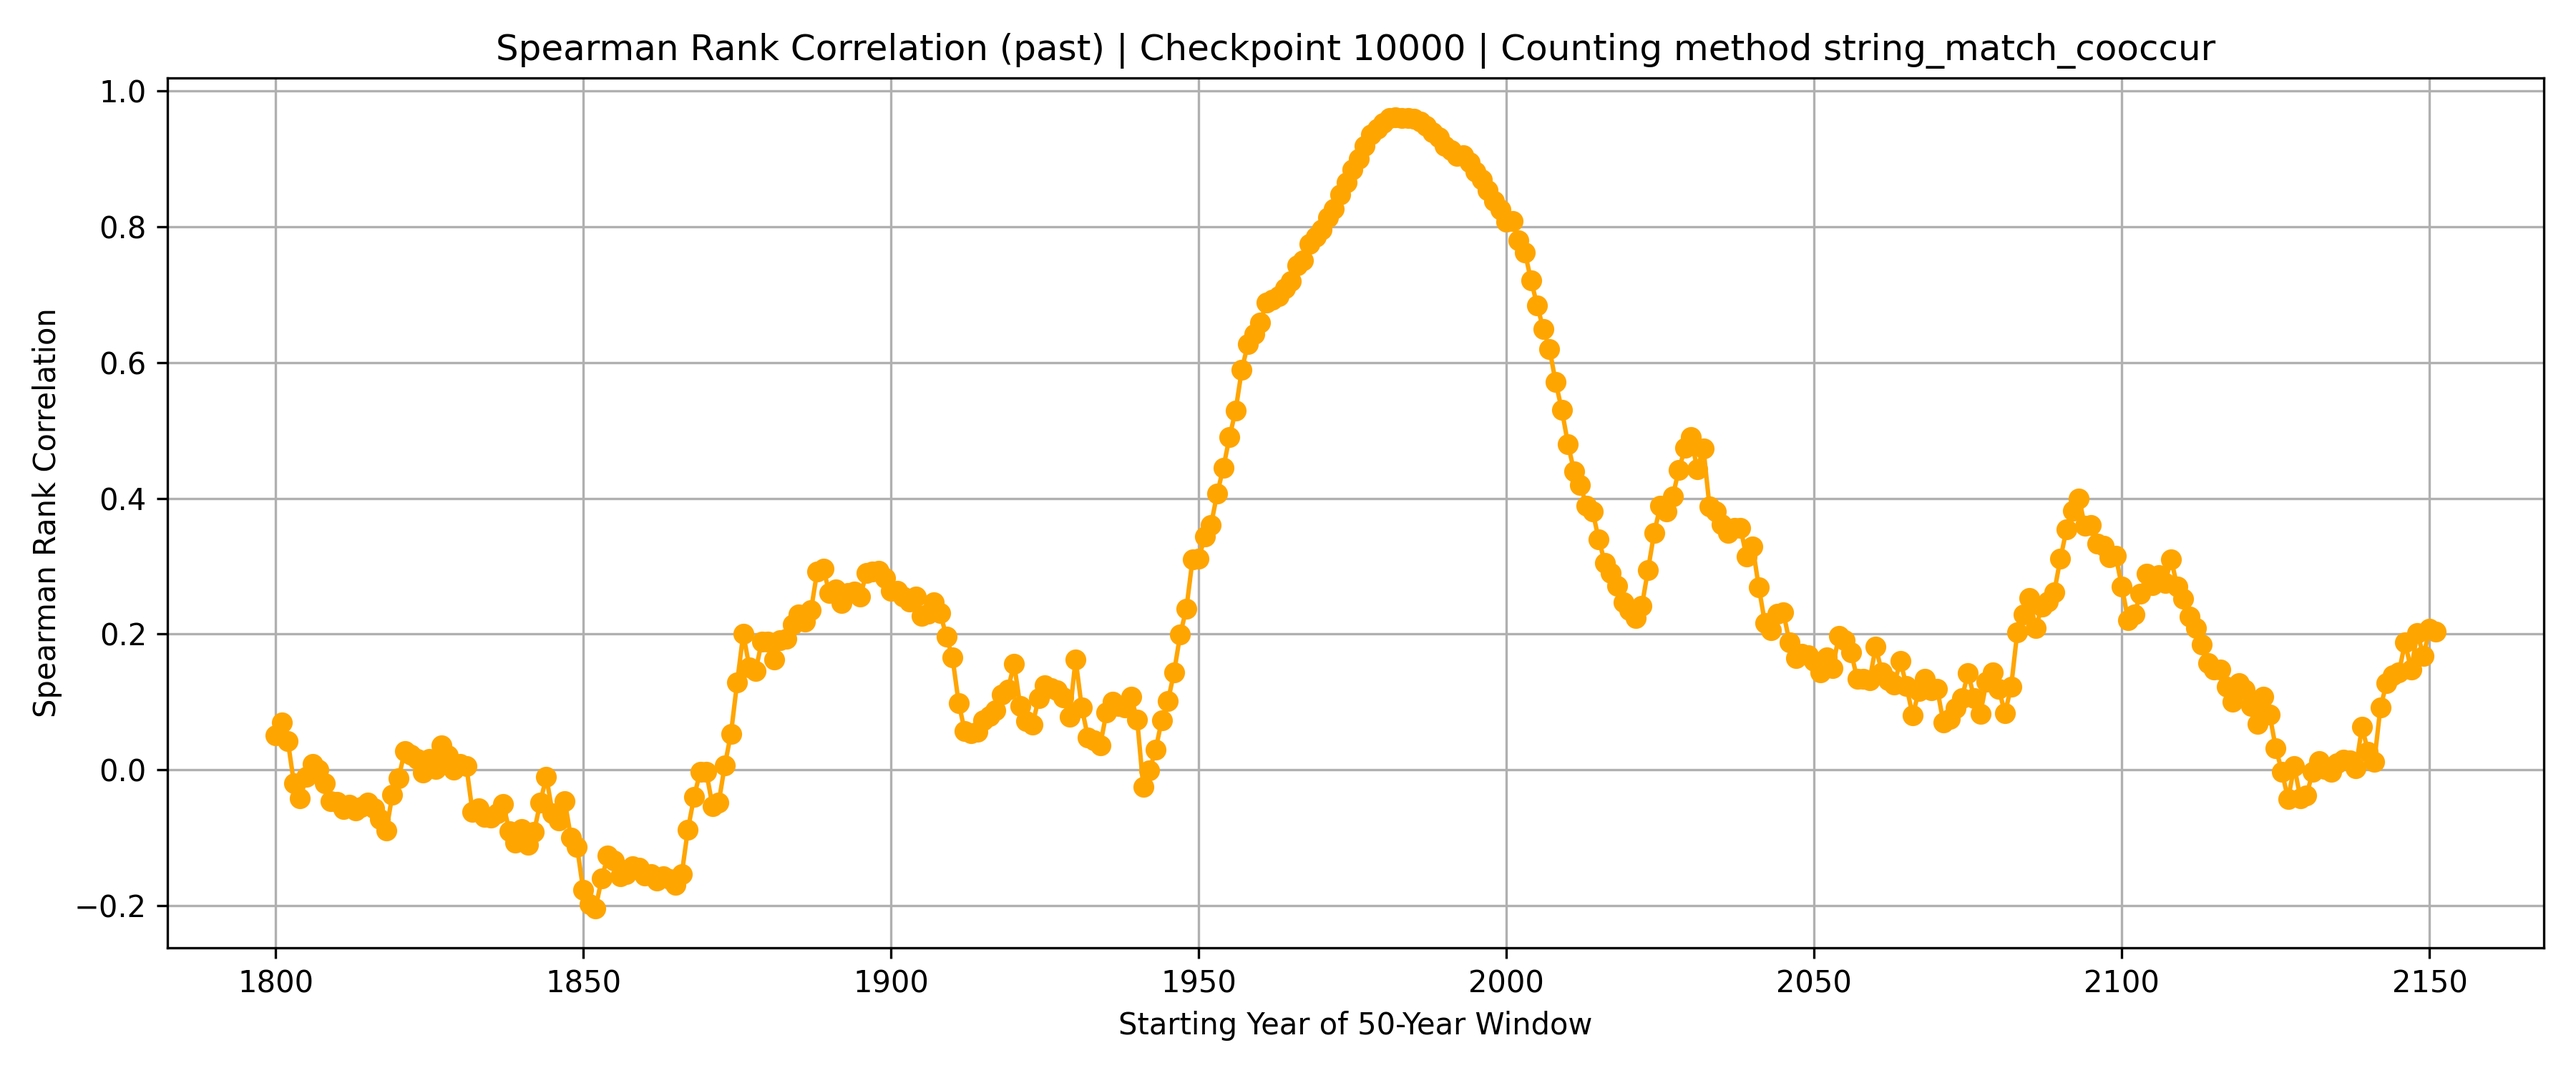
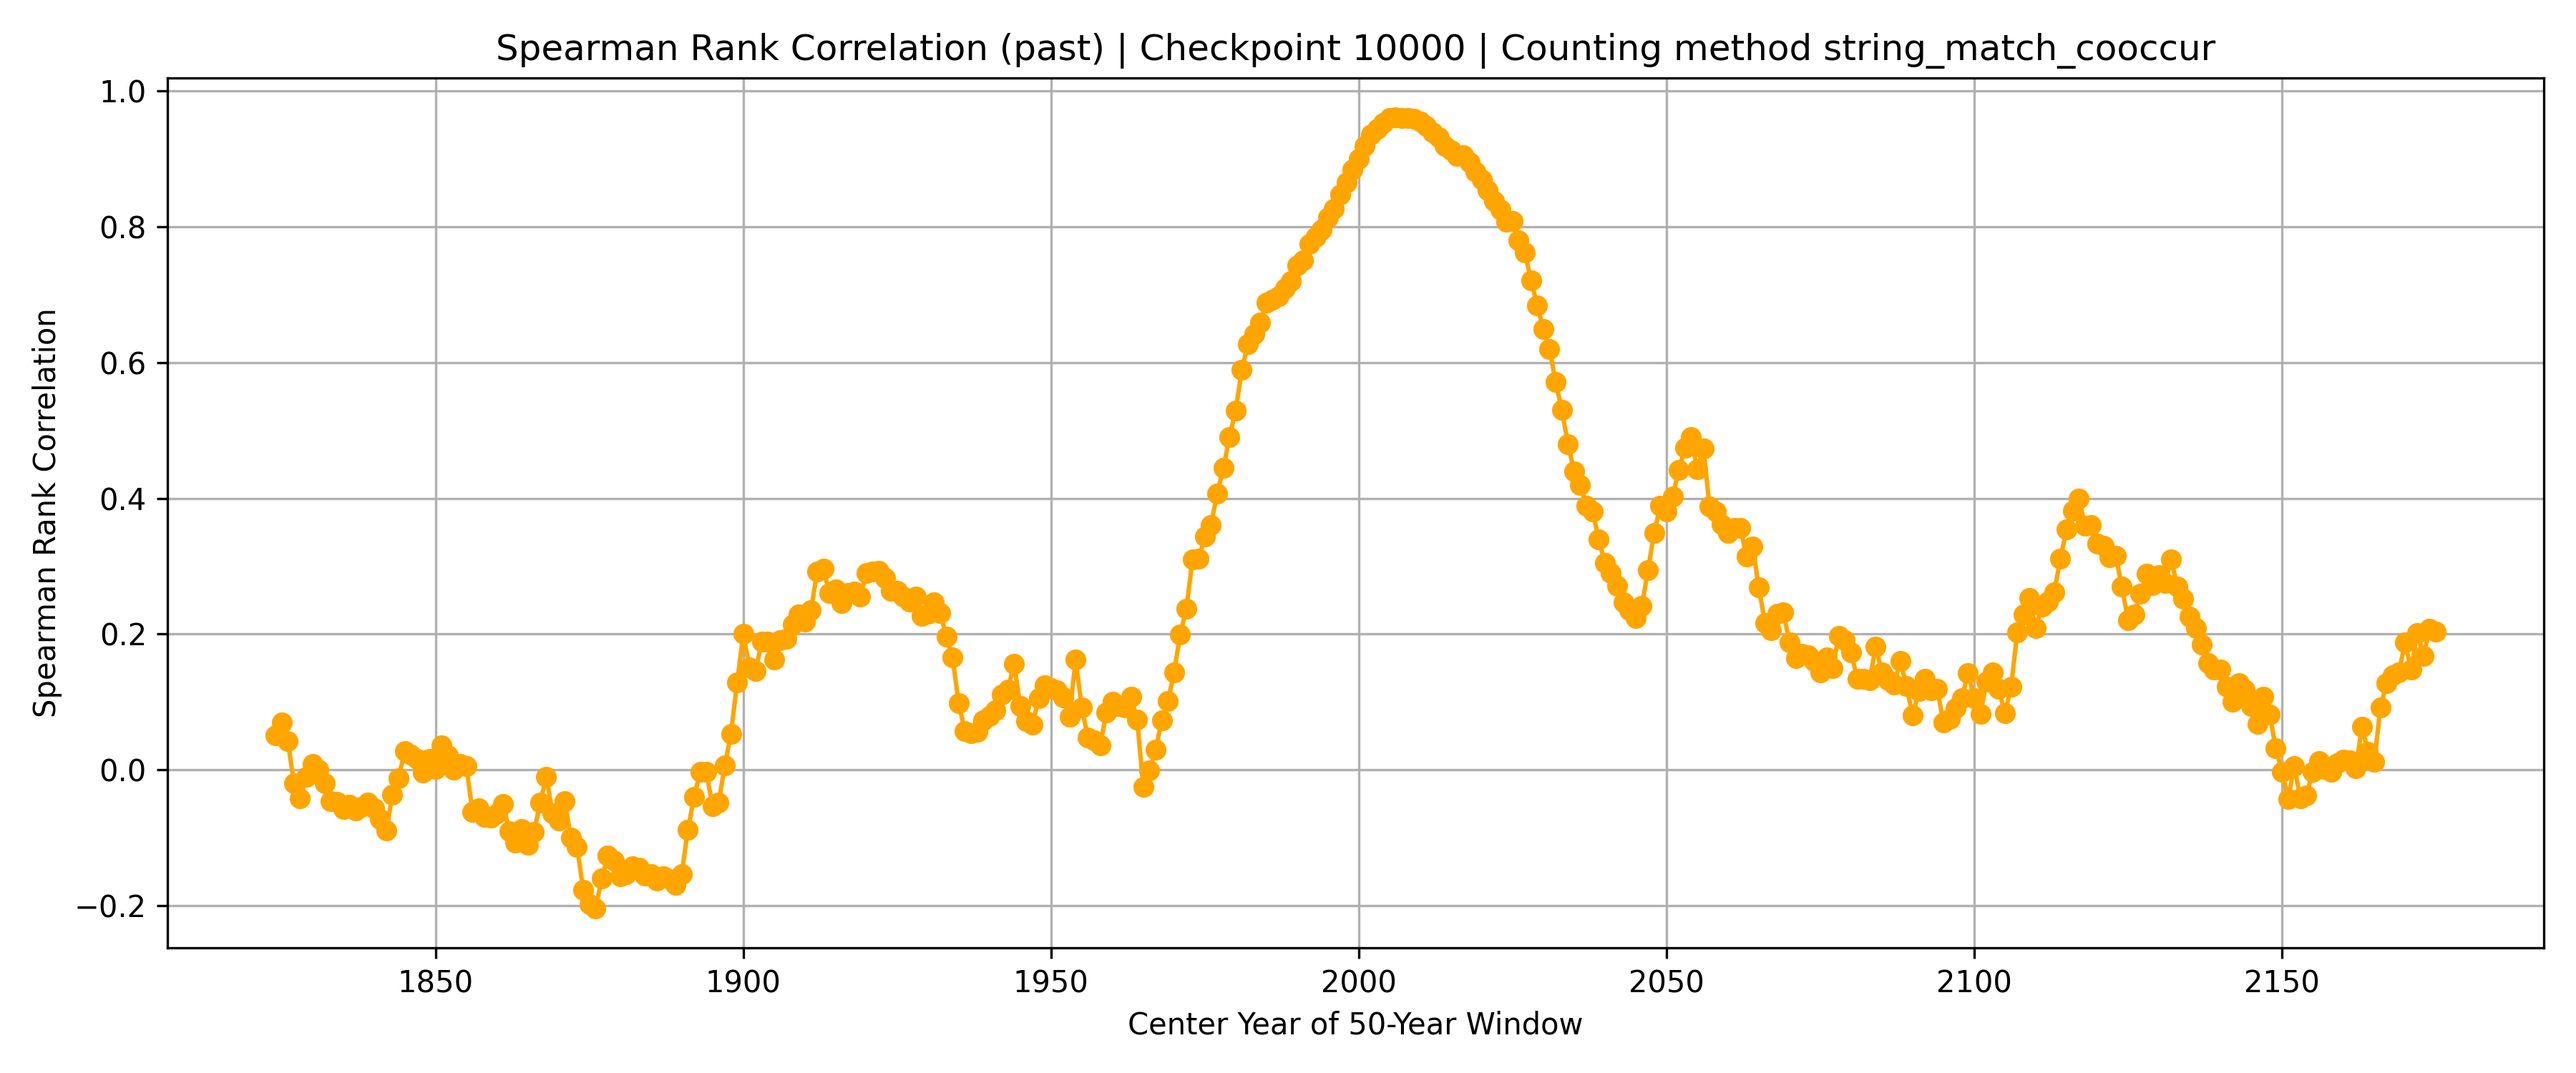
for the night

diff --git a/kl_divergence_checkpoints.py b/kl_divergence_checkpoints.py
@@ -51,7 +51,7 @@ class SpearmanAnalyzer:
 
     # Add these class attributes for consistent plotting
     TENSE_ORDER = ["past", "present", "future"]  # strict plotting order
-    TENSE_COLORS = {"past": "orange", "present": "green", "future": "purple"}
+    TENSE_COLORS = {"past": "orange", "present": "purple", "future": "green"}
 
 
     def populate_gold_data(self):
@@ -274,7 +274,7 @@ class SpearmanAnalyzer:
             ax.set_ylabel("Probability")
             ax.legend()
 
-            save_path = f"{output_dir}/{label}/{self.year_range[0]}_{self.year_range{1}}/stacked_year_distribution_ckpt{ckpt}.png"
+            save_path = f"{output_dir}/{label}/{self.year_range[0]}_{self.year_range[1]}/stacked_year_distribution_ckpt{ckpt}.png"
             plt.tight_layout()
             plt.savefig(save_path, dpi=300)
             plt.close()
@@ -303,6 +303,8 @@ class SpearmanAnalyzer:
         spearman_vals = []
         window_starts = []
 
+
+        # inside your loop over windows
         for i in range(len(years) - window + 1):
             win_years = years[i:i+window]
 
@@ -311,13 +313,15 @@ class SpearmanAnalyzer:
 
             rho, _ = spearmanr(train_vals, model_vals)
             spearman_vals.append(rho)
-            window_starts.append(int(win_years[0]))
 
-        # Plotting
-        Path(f"{output_dir}").mkdir(parents=True, exist_ok=True)
+            # Use center year instead of starting year
+            center_year = int((int(win_years[0]) + int(win_years[-1])) / 2)
+            window_starts.append(center_year)
+
+        # Then plot as before
         plt.figure(figsize=(12, 5))
         plt.plot(window_starts, spearman_vals, marker='o', color=self.TENSE_COLORS[tense])
-        plt.xlabel(f"Starting Year of {window}-Year Window")
+        plt.xlabel(f"Center Year of {window}-Year Window")
         plt.ylabel("Spearman Rank Correlation")
         plt.title(f"Spearman Rank Correlation ({tense}) | Checkpoint {checkpoint} | Counting method {label}")
         plt.grid(True)
@@ -374,7 +378,6 @@ class SpearmanAnalyzer:
         """
         Compute Spearman correlation between two distributions over a sliding window.
         """
-
         years = [str(y) for y in range(start_year, start_year + window_size)]
         d1_vals, d2_vals = [], []
 
@@ -389,18 +392,18 @@ class SpearmanAnalyzer:
         d2_flat = [v for pair in d2_vals for v in pair]
 
         rho, _ = spearmanr(d1_flat, d2_flat)
-        return rho if rho == rho else 0.0
+        return rho if rho == rho else None  # return None if nan
 
 
     def plot_spearman_over_checkpoints(
         self, dict1, dict2, window_size, start_years,
-        label1="data 1", label2="dicdata 2t2", output_dir="spearman_cp"
+        label1="data 1", label2="data 2", output_dir="spearman_cp"
     ):
         """
         Plot Spearman rank correlation over checkpoints for different start years (sliding windows).
-        Optionally save to file if save_path is given.
+        Skip points where rho is None.
+        Use different marker shapes for start years before/after 2022.
         """
-
         checkpoints = sorted(dict1.keys())
         colors = plt.cm.tab10(np.linspace(0, 1, len(start_years)))
 
@@ -408,21 +411,30 @@ class SpearmanAnalyzer:
 
         for color, start_year in zip(colors, start_years):
             spearmans = []
+            valid_cps = []
             for cp in checkpoints:
                 rho = self.compute_spearman_window(dict1, dict2, cp, start_year, window_size)
-                spearmans.append(rho)
-            plt.plot(checkpoints, spearmans, marker="o", color=color, label=f"{start_year} - {start_year+window_size}")
+                if rho is not None:
+                    spearmans.append(rho)
+                    valid_cps.append(cp)
+
+            if spearmans:
+                marker_shape = "s" if start_year >= 2022 else "o"  # square for future, circle for past
+                plt.plot(valid_cps, spearmans, marker=marker_shape, color=color,
+                        label=f"{start_year} - {start_year+window_size}", linestyle='-')
 
         plt.xlabel("Checkpoint")
         plt.ylabel("Spearman correlation")
         plt.title(f"Spearman correlation over checkpoints ({label1} vs {label2})")
         plt.legend()
-        plt.ylim(-1, 1)  # fix y-axis from -1 to 1
+        plt.ylim(-1, 1)
 
         os.makedirs(f"{output_dir}", exist_ok=True)
         save_path = f"{output_dir}/comparing_{label1}_{label2}_window_{window_size}_years_{self.year_range[0]}_{self.year_range[1]}.png"
         plt.savefig(save_path, dpi=300)
         plt.close()
+
+
 
 
 #########################################################################################
@@ -438,22 +450,27 @@ def run_model_training_plots():
     analyzer.plot_training_vs_model_stacked(analyzer.relative_training_data["string_match_cooccur"], checkpoints_to_plot, label="string_match_cooccur")
     analyzer.plot_training_vs_model_stacked(analyzer.relative_human_gold, checkpoints_to_plot, label="relative_human_gold")
 
+def plot_distribution():
+
+    analyzer = SpearmanAnalyzer(year_range=(1950, 2050))
+    checkpoints = [2000, 5000, 8000, 10000]
+    analyzer.plot_single_distribution_stacked(analyzer.relative_training_data["string_match_cooccur"], checkpoints, label="string_match_cooccur")
+    analyzer.plot_single_distribution_stacked(analyzer.relative_model_data, checkpoints, label="relative_model_data")
+
+    analyzer_full= SpearmanAnalyzer(year_range=(1600, 2200))
+    checkpoints = [2000, 5000, 8000, 10000]
+    analyzer_full.plot_single_distribution_stacked(analyzer_full.relative_training_data["string_match_cooccur"], checkpoints, label="string_match_cooccur")
+    analyzer_full.plot_single_distribution_stacked(analyzer_full.relative_model_data, checkpoints, label="relative_model_data")
+
 
 def run_spearman():
 
-    smanalyzer = SpearmanAnalyzer(year_range=(1950, 2050))
+    # smanalyzer = SpearmanAnalyzer(year_range=(1950, 2050))
+    smanalyzer = SpearmanAnalyzer(year_range=(1800, 2200))
 
     smanalyzer.plot_spearman_sliding_window(
         training_dict=smanalyzer.relative_training_data["string_match_cooccur"],
-        tense="future",
-        checkpoint=10000,
-        window=20,
-        label="string_match_cooccur"
-    )
-
-    smanalyzer.plot_spearman_sliding_window(
-        training_dict=smanalyzer.relative_training_data["string_match_cooccur"],
-        tense="future",
+        tense="past",
         checkpoint=10000,
         window=50,
         label="string_match_cooccur"
@@ -494,35 +511,29 @@ def run_training_dynamics():
         label2="relative_human_gold"
     )
 
-    analyser.plot_spearman_over_checkpoints(
-        analyser.relative_model_data,
-        analyser.relative_training_data["string_match_cooccur"],
-        window_size=20,
-        start_years=[1950, 1960, 1970, 1980, 1990, 2000, 2010, 2020, 2030],
-        label1="Model",
-        label2="string_match_cooccur"
-    )  
+    # analyser.plot_spearman_over_checkpoints(
+    #     analyser.relative_model_data,
+    #     analyser.relative_training_data["string_match_cooccur"],
+    #     window_size=20,
+    #     start_years=[1950, 1960, 1970, 1980, 1990, 2000, 2010, 2020, 2030],
+    #     label1="Model",
+    #     label2="string_match_cooccur"
+    # )  
+    
 
-    analyser.plot_spearman_over_checkpoints(
-        analyser.relative_human_gold,
-        analyser.relative_training_data["exact_str_matching_avg"],
-        window_size=20,
-        start_years=[1950, 1960, 1970, 1980, 1990, 2000, 2010, 2020, 2030],
-        label1="Model",
-        label2="exact_str_matching_avg"
-    )
+    # for working on specific ranges ood
+    # year_range=(2350, 2450)
+    # oodanalyser = SpearmanAnalyzer(year_range=year_range)
 
-def plot_distribution():
+    # oodanalyser.plot_spearman_over_checkpoints(
+    #     oodanalyser.relative_model_data,
+    #     oodanalyser.relative_training_data["string_match_cooccur"],
+    #     window_size=20,
+    #     start_years=range(year_range[0], year_range[1]-10, 10), # every 10 yr increment in range, leaving 20 at the end for the window
+    #     label1="Model",
+    #     label2="string_match_cooccur"
+    # )  
 
-    analyzer = SpearmanAnalyzer(year_range=(1950, 2050))
-    checkpoints = [2000, 5000, 8000, 10000]
-    analyzer.plot_single_distribution_stacked(analyzer.relative_training_data["string_match_cooccur"], checkpoints, label="string_match_cooccur")
-    analyzer.plot_single_distribution_stacked(analyzer.relative_model_data, checkpoints, label="relative_model_data")
-
-    analyzer_full= SpearmanAnalyzer(year_range=(1600, 2200))
-    checkpoints = [2000, 5000, 8000, 10000]
-    analyzer_full.plot_single_distribution_stacked(analyzer_full.relative_training_data["string_match_cooccur"], checkpoints, label="string_match_cooccur")
-    analyzer_full.plot_single_distribution_stacked(analyzer_full.relative_model_data, checkpoints, label="relative_model_data")
 
 ####################################################################################################################################################################################
 
@@ -530,8 +541,8 @@ def plot_distribution():
 if __name__ == "__main__":
     # python kl_divergence_checkpoints.py
 
-    # run_model_training_plots()
+    # run_model_training_plots()  # this plots 2 distributions side by side
+    # plot_distribution()
     # run_spearman()
     # run_ce_loss()
     run_training_dynamics()
-    plot_distribution()
